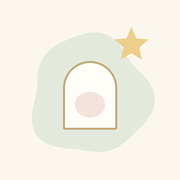
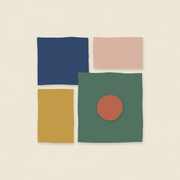
Add files via upload

diff --git a/app.js b/app.js
@@ -121,7 +121,8 @@ function viewHome() {
   h += `${I.flourish}<p class="muted small" style="margin:0">${n} 件作品・${np} 個地點</p></div>
   <button class="hit" data-act="go" data-to="dna" aria-label="我的美感 DNA" style="width:auto;display:flex;flex-direction:column;align-items:center;gap:2px">${avatarHtml(54)}<span class="tiny" style="color:var(--primary);font-weight:700">我的美感</span></button></div>`;
   if (todayVisit) h += `<button class="hit row" data-act="openCamera" style="margin-top:18px;background:var(--sage);border-radius:26px 14px 30px 12px;padding:14px 16px;gap:12px">${I.star('#4F6652', 22)}<span class="grow" style="line-height:1.5"><strong>今天在${esc(todayVisit.name)}</strong><br><span class="muted small">回到相機，繼續記錄</span></span>${I.next}</button>`;
-  if (pending) h += `<div class="card row" style="margin-top:12px;background:var(--butter)"><span class="grow small">有 ${pending} 件作品還沒辨識（可能是沒網路或沒設定金鑰）。</span><button class="btn white" data-act="retryAll">${S.ui.busy.retry ? '<span class="spin"></span>' : '再試一次'}</button></div>`;
+  if (QRUN || S.queue.length) h += `<div class="card row" role="status" style="margin-top:12px;background:var(--sky)"><span class="spin" style="flex:none"></span><span class="grow small" style="line-height:1.5"><strong>正在辨識照片・還有 ${pending + S.queue.length} 張</strong><br>可以先去看別的；關掉 app 也不會遺失，下次打開會接著辨識。</span></div>`;
+  else if (pending) { const ew = S.works.find(w => w.status === 'pending' && w.error); h += `<div class="card row" style="margin-top:12px;background:var(--butter)"><span class="grow small" style="line-height:1.5">有 ${pending} 張照片還沒辨識，照片都已經存好了。${ew ? '<br><span class="muted">' + esc(ew.error) + '</span>' : ''}</span><button class="btn white" data-act="retryAll">${S.ui.busy.retry ? '<span class="spin"></span>' : '再試一次'}</button></div>`; }
   if (!n && !np) {
     h += `<div class="empty">${I.blob('#F4E3DD', 120)}<h2 class="serif" style="font-size:26px;margin:8px 0">你的畫廊還是空的</h2><p class="muted">在美術館、或在路上看到喜歡的東西，打開相機拍下來就好。今天的畫廊會自己慢慢長出來。</p>
     <div class="row wrap" style="margin-top:16px"><button class="btn solid" data-act="openCamera">${I.cam}打開相機</button><button class="btn" data-act="pickLib">${I.img}匯入以前的照片</button></div></div></main>${nav('home')}`;
@@ -147,7 +148,7 @@ function viewHome() {
     let ws = [...S.works].sort((a, b) => lastAt(b) - lastAt(a));
     if (S.ui.favOnly) ws = ws.filter(w => w.fav);
     h += `<div class="row" style="justify-content:space-between;margin:18px 0 14px"><span class="muted small">${S.ui.favOnly ? '最喜歡的作品' : `全部 ${S.works.length} 件・最近的在上面`}</span><button class="opt ${S.ui.favOnly ? 'on' : ''}" aria-pressed="${S.ui.favOnly}" data-act="favOnly">只看最喜歡</button></div><div class="grid2">`;
-    ws.forEach((w, i) => { const m = mainPhoto(w); h += `<button class="hit thumbwork" data-act="go" data-to="work" data-id="${w.id}"><span class="bk" style="background:${PASTEL[i % 5]};border-radius:${RAD[i % 5]}"></span><span class="frame">${m ? `<img src="${purl(m)}" alt="${esc(w.title)}">` : ''}</span>${w.status === 'pending' ? '<span class="badge">待辨識</span>' : w.isCopy ? '<span class="badge">複製品</span>' : w.confidence === 'low' ? '<span class="badge">AI 推測</span>' : ''}<strong style="display:block;font-size:15px;margin-top:8px;line-height:1.5;position:relative">${esc(w.title)}</strong><span class="muted small" style="position:relative">${esc(w.artist || '作者不明')}・${photosOf(w.id).length} 張${w.fav ? '・最喜歡' : ''}</span></button>`; });
+    ws.forEach((w, i) => { const m = mainPhoto(w); h += `<button class="hit thumbwork" data-act="go" data-to="work" data-id="${w.id}"><span class="bk" style="background:${PASTEL[i % 5]};border-radius:${RAD[i % 5]}"></span><span class="frame">${m ? `<img src="${purl(m)}" alt="${esc(w.title)}">` : ''}</span>${w.status === 'pending' ? `<span class="badge">${S.working === w.id ? '辨識中…' : '待辨識'}</span>` : w.isCopy ? '<span class="badge">複製品</span>' : w.confidence === 'low' ? '<span class="badge">AI 推測</span>' : ''}<strong style="display:block;font-size:15px;margin-top:8px;line-height:1.5;position:relative">${esc(w.title)}</strong><span class="muted small" style="position:relative">${esc(w.artist || '作者不明')}・${photosOf(w.id).length} 張${w.fav ? '・最喜歡' : ''}</span></button>`; });
     h += `</div>`;
   } else {
     h += `<div style="border-left:1px solid var(--gold);margin:26px 0 0 8px">`;
@@ -189,7 +190,7 @@ function viewWork() {
   ${p ? `<span class="chip" style="position:absolute;left:18px;bottom:18px;background:rgba(255,253,248,.95)"><strong>${esc(p.type)}</strong>・${idx + 1} / ${ps.length} 張</span>` : ''}</div>
   <div class="row" style="margin-top:10px;overflow-x:auto;padding-bottom:2px">${ps.map((x, i) => `<button class="hit" style="width:auto;flex:none" data-act="photoIdx" data-i="${i}" aria-label="看第 ${i + 1} 張：${esc(x.type)}"><img src="${purl(x)}" alt="" style="width:50px;height:50px;object-fit:cover;display:block;border:3px solid ${i === idx ? 'var(--accent)' : 'var(--card)'};border-radius:12px 8px 14px 6px"></button>`).join('')}</div>
   <button class="btn white" data-act="sheet" data-v="menu" style="margin-top:8px;font-size:14px">${I.sort}這張放錯了？整理這張照片</button>`;
-  if (w.status === 'pending') h += `<div class="card" style="margin-top:18px;background:var(--butter)"><strong>這件還沒辨識</strong><p style="margin:4px 0 10px" class="small">${esc(w.error || '有網路、設定好金鑰後就能辨識。')}</p><button class="btn white" data-act="reanalyze">${S.ui.busy[w.id] ? '<span class="spin"></span> 辨識中' : '現在辨識'}</button></div>`;
+  if (w.status === 'pending') h += `<div class="card" style="margin-top:18px;background:var(--butter)"><strong>${S.working === w.id ? '正在辨識…' : '這張還沒辨識'}</strong><p style="margin:4px 0 10px" class="small">${esc(S.working === w.id ? '馬上就好。' : (w.error || '照片已經存好，正在排隊等待辨識。'))}</p><button class="btn white" data-act="reanalyze">${S.ui.busy[w.id] ? '<span class="spin"></span> 辨識中' : '現在辨識'}</button></div>`;
   h += `<div style="margin-top:20px">${w.isCopy ? '<span class="chip">複製品・不算進美感 DNA</span> ' : ''}${w.kind === 'street' ? '<span class="chip" style="background:var(--sage)">路上的小美好</span>' : ''}`;
   if (S.ui.editInfo) {
     h += `<div class="card" style="margin-top:10px">${[['eiT', '作品名稱', w.title], ['eiA', '藝術家', w.artist], ['eiY', '年代', w.year], ['eiM', '媒材', w.medium]].map(([id, l, v]) => `<label class="lab" for="${id}">${l}</label><input id="${id}" class="field" value="${esc(v || '')}" style="margin-bottom:10px">`).join('')}<p class="muted tiny" style="margin:0 0 10px">存下來後，可以按「依新資料重寫解說」讓 AI 重新整理。</p><div class="row"><button class="btn grow" data-act="editInfo">取消</button><button class="btn solid grow" data-act="saveInfo">存下來</button></div></div>`;
@@ -253,7 +254,8 @@ function viewCamera() {
   const todays = pl ? visitsOf(pl.id).find(v => v.date === ymd(Date.now())) : null;
   let h = `<main class="cam"><div class="row" style="justify-content:space-between;align-items:flex-start"><span class="pill">${pl ? `你在<strong>${esc(pl.name)}</strong><br><span class="muted tiny">今天的畫廊已開始・${todays ? todays.works.length : 0} 件</span>` : '拍下第一張，<br><span class="muted tiny">AI 會判斷你在哪裡</span>'}</span>
   <button class="btn white" data-act="endVisit" style="font-weight:700;color:var(--ink)">結束</button></div><div style="flex:1;display:flex;flex-direction:column;justify-content:center;gap:12px;padding:16px 0">`;
-  S.queue.forEach(q => { h += `<div class="pill row" role="status">${q.thumb ? `<img src="${q.thumb}" alt="" style="width:44px;height:44px;object-fit:cover;border-radius:10px">` : ''}<span class="spin"></span><span>${q.status === 'ai' ? '辨識中…' : '處理照片中…'}</span></div>`; });
+  const nq = queuedWorks().length + S.queue.length; const cw = S.working && workOf(S.working); const cp = cw && mainPhoto(cw);
+  if (nq) h += `<div class="pill row" role="status">${cp ? `<img src="${purl(cp)}" alt="" style="width:44px;height:44px;object-fit:cover;border-radius:10px">` : ''}<span class="spin"></span><span class="grow" style="line-height:1.4">${QRUN ? '辨識中' : '已存好，等待辨識'}・還有 ${nq} 張<br><span class="muted tiny">照片已經存好，可以繼續拍或關閉相機</span></span></div>`;
   const L = S.last; const lw = L && workOf(L.workId);
   if (L && L.facade) h += `<div class="pill">已存成這個地點的封面照片。</div>`;
   else if (lw && L.grouped) h += `<div class="pill" role="status" style="background:var(--sage)">已收在一起（${photosOf(lw.id).length} 張）・《${esc(lw.title)}》</div>`;
@@ -269,7 +271,7 @@ function viewCamera() {
   <label for="camInput" class="shutter" role="button" aria-label="拍照"><span>${I.star('#EBCF8A', 30)}</span></label>
   <button class="round" data-act="${S.rec ? 'stopRec' : 'startRec'}" aria-label="${S.rec ? '結束錄音' : '錄下感想'}" style="${S.rec ? 'background:var(--pink);color:var(--accent)' : ''}">${I.mic}</button></div>
   <p class="tiny" style="text-align:center;margin:10px 0 0;opacity:.85">拍照後會自動辨識、自動收進今天的畫廊${S.last && S.last.workId ? '；麥克風會把感想存到最新的作品' : ''}</p>
-  <button class="btn ghost" data-act="tab" data-to="home" style="color:#FBF7EF;margin:6px auto 0">${I.x}關閉相機</button></main>`;
+  <button class="btn ghost" data-act="tab" data-to="home" style="color:#FBF7EF;margin:6px auto 0">${I.x}關閉相機${nq ? '（辨識會在背景繼續）' : ''}</button></main>`;
   return h;
 }
 
@@ -456,26 +458,57 @@ function applyAI(w, r, opts = {}) {
 }
 function candidatesFor(placeId) { return placeId ? worksAt(placeId).filter(w => w.status === 'ready').sort((a, b) => lastAt(b) - lastAt(a)).slice(0, 40).map(w => ({ id: w.id, title: w.title + (w.titleOriginal ? ' / ' + w.titleOriginal : ''), artist: w.artist })) : []; }
 
+/* 照片先存起來（很快），辨識交給背景佇列：離開相機、關掉 app 都不會遺失 */
 async function processFile(file, fromCamera) {
-  const q = { id: uid(), status: 'prep', thumb: null }; S.queue.push(q); if (S.route.name === 'camera') render();
+  const q = { id: uid(), status: 'prep', thumb: null }; S.queue.push(q); render();
   try {
     const exif = await readExif(file);
     const prep = await prepareImage(file);
-    q.thumb = URL.createObjectURL(prep.thumb);
     const takenAt = exif.time || (fromCamera ? Date.now() : (file.lastModified || Date.now()));
     const loc = exif.lat != null ? { lat: exif.lat, lng: exif.lng } : (fromCamera ? await getLocation() : null);
-    const photo = { id: uid(), workId: null, placeId: null, type: '作品', blob: prep.full, thumb: prep.thumb, w: prep.w, h: prep.h, takenAt, lat: loc ? loc.lat : null, lng: loc ? loc.lng : null, createdAt: Date.now() };
+    const photo = { id: uid(), workId: null, placeId: null, type: '作品', blob: prep.full, thumb: prep.thumb, w: prep.w, h: prep.h, takenAt, lat: loc ? loc.lat : null, lng: loc ? loc.lng : null, createdAt: Date.now(), fromCamera: !!fromCamera };
     const sess = currentSession(takenAt, loc);
-    const geo = await reverseCity(loc);
-    q.status = 'ai'; if (S.route.name === 'camera') render();
-    let r = null, err = null;
-    try { r = await AI.analyzePhoto(S.settings, { imageB64: prep.aiData, takenAt, placeHint: sess ? placeOf(sess.placeId).name : null, cityHint: geo && geo.city, candidates: candidatesFor(sess && sess.placeId) }); }
-    catch (e) { err = e; }
-    await integrate(photo, r, { sess, loc, geo, takenAt, err });
+    const w = { id: uid(), placeId: sess ? sess.placeId : null, title: '辨識中的作品', status: 'pending', queued: true, thoughts: [], fav: false, createdAt: Date.now() };
+    S.works.push(w); await saveWork(w);
+    photo.workId = w.id; S.photos.push(photo); await savePhoto(photo);
     if (navigator.storage && navigator.storage.persist) navigator.storage.persist().catch(() => {});
-  } catch (e) { toast('這張照片處理失敗：' + e.message); }
+  } catch (e) { toast('這張照片打不開：' + e.message); }
   S.queue = S.queue.filter(x => x !== q);
   render();
+}
+let QRUN = false, QTIMER = null;
+const queuedWorks = () => S.works.filter(w => w.status === 'pending' && w.queued);
+async function runQueue() {
+  if (QRUN) return; QRUN = true; clearTimeout(QTIMER);
+  try {
+    while (true) {
+      const list = queuedWorks().filter(w => !w.hold).map(w => ({ w, p: photosOf(w.id)[0] })).filter(x => x.p).sort((a, b) => a.p.takenAt - b.p.takenAt);
+      if (!list.length) break;
+      const { w, p } = list[0]; S.working = w.id; render();
+      const loc = p.lat != null ? { lat: p.lat, lng: p.lng } : null;
+      const sess = currentSession(p.takenAt, loc);
+      const geo = await reverseCity(loc);
+      let r = null, err = null;
+      try { const prep = await prepareImage(p.blob); r = await AI.analyzePhoto(S.settings, { imageB64: prep.aiData, takenAt: p.takenAt, placeHint: sess ? placeOf(sess.placeId).name : null, cityHint: geo && geo.city, candidates: candidatesFor(sess && sess.placeId) }); }
+      catch (e) { err = e; }
+      if (!r) {
+        w.error = err.message; w.attempts = (w.attempts || 0) + 1; await saveWork(w);
+        const stopAll = ['nokey', 'offline', 'network'].includes(err.code);
+        const later = err.code === 'timeout' || err.status === 429 || err.status >= 500;
+        if (stopAll) { if (err.code === 'nokey') toast('還沒設定 AI 金鑰，照片都先存起來了。到設定貼上金鑰就會開始辨識。', 5000); break; }
+        w.hold = true; // 先跳過這張，繼續下一張
+        if (later) { clearTimeout(QTIMER); QTIMER = setTimeout(() => { queuedWorks().forEach(x => { x.hold = false; }); runQueue(); }, 60000); }
+        continue;
+      }
+      // 辨識成功：拿掉暫時的作品，照片依 AI 結果收進正確的地點和作品
+      const prevLast = S.last;
+      S.works = S.works.filter(x => x.id !== w.id); await DB.del('works', w.id);
+      S.photos = S.photos.filter(x => x.id !== p.id); p.workId = null;
+      await integrate(p, r, { sess, loc, geo, takenAt: p.takenAt });
+      if (!p.fromCamera) S.last = prevLast;
+      if (S.route.name === 'work' && S.route.p.id === w.id && p.workId) { S.route = { name: 'work', p: { id: p.workId } }; }
+    }
+  } finally { QRUN = false; S.working = null; render(); }
 }
 async function integrate(photo, r, ctx) {
   const { sess, loc, geo, takenAt, err } = ctx;
@@ -519,12 +552,9 @@ async function integrate(photo, r, ctx) {
 }
 async function handleFiles(files, fromCamera) {
   const arr = [...files]; if (!arr.length) return;
-  if (!fromCamera && arr.length > 1) {
-    const withT = await Promise.all(arr.map(async f => ({ f, t: (await readExif(f)).time || f.lastModified || 0 })));
-    withT.sort((a, b) => a.t - b.t); arr.splice(0, arr.length, ...withT.map(x => x.f));
-    toast(`正在整理 ${arr.length} 張照片，會依拍攝時間自動分組。`, 4000);
-  }
+  if (!fromCamera) toast(arr.length > 1 ? `收到 ${arr.length} 張照片，正在背景辨識。可以先去看別的，關掉 app 也不會遺失。` : '收到照片，正在背景辨識。', 4500);
   for (const f of arr) await processFile(f, fromCamera);
+  runQueue();
 }
 async function reanalyze(w, useCandidates = false) {
   const ps = photosOf(w.id); if (!ps.length) return;
@@ -548,9 +578,11 @@ async function reanalyze(w, useCandidates = false) {
 }
 async function retryPending() {
   if (S.ui.busy.retry || !navigator.onLine || !(S.settings.keys || {})[S.settings.provider]) return;
-  const ps = S.works.filter(w => w.status === 'pending'); if (!ps.length) return;
+  queuedWorks().forEach(w => { w.hold = false; });
+  runQueue();
+  const old = S.works.filter(w => w.status === 'pending' && !w.queued); if (!old.length) return;
   S.ui.busy.retry = true; render();
-  for (const w of ps) await reanalyze(w, true);
+  for (const w of old) await reanalyze(w, true);
   delete S.ui.busy.retry; render();
 }
 
@@ -668,7 +700,7 @@ const ACT = {
   showLong: () => { S.ui.showLong = !S.ui.showLong; render(); },
   editInfo: () => { S.ui.editInfo = !S.ui.editInfo; render(); },
   saveInfo: async () => { const w = workOf(S.route.p.id); Object.assign(w, { title: $('#eiT').value.trim() || w.title, artist: $('#eiA').value.trim(), year: $('#eiY').value.trim(), medium: $('#eiM').value.trim(), userEdited: true, confidence: 'high' }); if (w.status === 'pending' && w.title !== '待辨識的作品') w.status = 'ready'; S.ui.editInfo = false; await saveWork(w); toast('已更新。'); render(); },
-  reanalyze: () => { const w = workOf(S.route.p.id); if (w && !S.ui.busy[w.id]) reanalyze(w, w.status === 'pending'); },
+  reanalyze: () => { const w = workOf(S.route.p.id); if (!w) return; if (w.queued && w.status === 'pending') { w.hold = false; toast('排進辨識佇列了。'); runQueue(); return; } if (!S.ui.busy[w.id]) reanalyze(w, w.status === 'pending'); },
   retryAll: () => retryPending(),
   artistDna: async () => {
     const w = workOf(S.route.p.id); if (S.ui.busy.artist) return; S.ui.busy.artist = true; render();
@@ -723,7 +755,7 @@ const ACT = {
     const v = $('#keyIn').value.trim(); if (!v) { S.ui.obMsg = '請先貼上金鑰。'; render(); return; }
     S.settings.keys = { ...S.settings.keys, [S.settings.provider]: v }; await saveSettings();
     S.ui.busy.key = true; S.ui.obMsg = ''; render();
-    try { await AI.testKey(S.settings); S.ui.obMsg = '成功！金鑰可以使用，已經存好了。'; retryPending(); }
+    try { await AI.testKey(S.settings); S.ui.obMsg = '成功！金鑰可以使用，已經存好了。'; queuedWorks().forEach(w => { w.hold = false; }); retryPending(); }
     catch (e) { S.ui.obMsg = e.message; }
     delete S.ui.busy.key; render();
   },
@@ -744,8 +776,8 @@ document.addEventListener('click', e => {
   e.preventDefault(); fn(el.dataset, el, e);
 });
 document.addEventListener('keydown', e => { if (e.key === 'Enter' && e.target.id === 'nameIn') ACT.saveName(); });
-$('#camInput').addEventListener('change', e => { const f = e.target.files; if (S.route.name !== 'camera') tab('camera'); handleFiles(f, true).finally(() => { e.target.value = ''; }); });
-$('#libInput').addEventListener('change', e => { const f = e.target.files; if (S.route.name !== 'camera') tab('camera'); handleFiles(f, false).finally(() => { e.target.value = ''; }); });
+$('#camInput').addEventListener('change', e => { const f = [...e.target.files]; e.target.value = ''; if (S.route.name !== 'camera') tab('camera'); handleFiles(f, true); });
+$('#libInput').addEventListener('change', e => { const f = [...e.target.files]; e.target.value = ''; if (S.route.name === 'camera' || S.route.name !== 'home') tab('home'); S.ui.homeView = 'works'; handleFiles(f, false); });
 $('#addInput').addEventListener('change', async e => {
   const w = workOf(S.route.p.id); if (!w) return;
   for (const f of e.target.files) { const exif = await readExif(f); const prep = await prepareImage(f); const p = { id: uid(), workId: w.id, type: '細節', blob: prep.full, thumb: prep.thumb, w: prep.w, h: prep.h, takenAt: exif.time || f.lastModified || Date.now(), lat: exif.lat ?? null, lng: exif.lng ?? null, createdAt: Date.now() }; S.photos.push(p); await savePhoto(p); }
@@ -754,6 +786,7 @@ $('#addInput').addEventListener('change', async e => {
 $('#avatarInput').addEventListener('change', async e => { const f = e.target.files[0]; if (!f) return; const prep = await prepareImage(f); await setAvatar(prep.thumb); e.target.value = ''; render(); });
 $('#importInput').addEventListener('change', e => { const f = e.target.files[0]; if (f) importData(f); e.target.value = ''; });
 window.addEventListener('online', () => { setTimeout(retryPending, 1500); });
+document.addEventListener('visibilitychange', () => { if (document.visibilityState === 'visible') setTimeout(runQueue, 800); });
 
 async function loadAll() {
   S.settings = { ...DEFAULTS, ...(await DB.getKV('settings', {})) };
@@ -767,5 +800,5 @@ async function loadAll() {
   try { await loadAll(); } catch (e) { $('#app').innerHTML = '<p style="padding:30px">這個瀏覽器無法儲存資料（可能是無痕模式）。請用一般模式的 Safari 或 Chrome 打開。</p>'; return; }
   S.route = { name: 'home', p: {} }; render();
   if ('serviceWorker' in navigator) navigator.serviceWorker.register('sw.js').catch(() => {});
-  setTimeout(retryPending, 3000);
+  setTimeout(() => { runQueue(); retryPending(); }, 1500);
 })();

diff --git a/ai.js b/ai.js
@@ -2,12 +2,12 @@
 /* AI：每個人用自己的金鑰，直接從手機呼叫，金鑰只存在這支手機裡。 */
 const AI = (() => {
   const PROVIDERS = {
-    gemini: { name: 'Gemini', model: 'gemini-flash-latest', keyHint: 'AQ. 或 AIza 開頭', audio: true },
+    gemini: { name: 'Gemini', model: 'gemini-2.5-flash', keyHint: 'AQ. 或 AIza 開頭', audio: true },
     claude: { name: 'Claude', model: 'claude-sonnet-4-5', keyHint: 'sk-ant- 開頭', audio: false },
     openai: { name: 'ChatGPT', model: 'gpt-4o-mini', keyHint: 'sk- 開頭', audio: false }
   };
 
-  const GEMINI_FALLBACK = ['gemini-2.5-flash', 'gemini-2.5-flash-lite', 'gemini-flash-lite-latest'];
+  const GEMINI_FALLBACK = ['gemini-flash-latest', 'gemini-2.5-flash-lite', 'gemini-flash-lite-latest'];
 
   function parseJSON(text) {
     if (!text) throw new Error('AI 沒有回覆內容');
@@ -33,9 +33,16 @@ const AI = (() => {
     return friendlyError(status, body) + `（代碼 ${status}${msg ? '・' + String(msg).slice(0, 80) : ''}）`;
   }
 
+  // 每次呼叫最多等 45 秒，超過就先跳過，之後再試
+  async function tFetch(url, opts, ms = 45000) {
+    const ctl = new AbortController(); const t = setTimeout(() => ctl.abort(), ms);
+    try { return await fetch(url, { ...opts, signal: ctl.signal }); }
+    catch (e) { if (e.name === 'AbortError') { const err = new Error('AI 回應太久，先跳過這張，稍後會再自動試一次。'); err.code = 'timeout'; throw err; } throw e; }
+    finally { clearTimeout(t); }
+  }
   async function netFetch(url, opts) {
-    try { return await fetch(url, opts); }
-    catch (e) { const err = new Error('連不上 AI 服務（Load failed）。請確認網路正常；如果一直出現，可以到設定改用其他 AI。'); err.code = 'network'; throw err; }
+    try { return await tFetch(url, opts); }
+    catch (e) { if (e.code === 'timeout') throw e; const err = new Error('連不上 AI 服務（Load failed）。請確認網路正常；如果一直出現，可以到設定改用其他 AI。'); err.code = 'network'; throw err; }
   }
 
   async function call(settings, { system, text, imageB64, audioB64, audioMime, json = true, maxTokens = 1800 }) {
@@ -56,8 +63,11 @@ const AI = (() => {
       for (let i = 0; i < models.length; i++) {
         const url = `https://generativelanguage.googleapis.com/v1beta/models/${encodeURIComponent(models[i])}:generateContent`;
         // 先用「簡單請求」（不帶自訂標頭，Safari 比較不會擋），失敗再改用標頭帶金鑰
-        try { res = await fetch(url + '?key=' + encodeURIComponent(key), { method: 'POST', headers: { 'Content-Type': 'text/plain;charset=UTF-8' }, body: payload }); }
-        catch (e1) { res = await netFetch(url, { method: 'POST', headers: { 'Content-Type': 'application/json', 'x-goog-api-key': key }, body: payload }); }
+        try { res = await tFetch(url + '?key=' + encodeURIComponent(key), { method: 'POST', headers: { 'Content-Type': 'text/plain;charset=UTF-8' }, body: payload }); }
+        catch (e1) {
+          if (e1.code === 'timeout') { if (i === models.length - 1) throw e1; continue; }
+          res = await netFetch(url, { method: 'POST', headers: { 'Content-Type': 'application/json', 'x-goog-api-key': key }, body: payload });
+        }
         body = await res.json().catch(() => ({}));
         if (res.ok) break;
         const busy = res.status >= 500 || res.status === 429 || res.status === 404;

diff --git a/sw.js b/sw.js
@@ -1,5 +1,5 @@
 // 我的美術館 service worker：讓 app 在沒有網路時也能打開
-const VERSION = 'mg-v4';
+const VERSION = 'mg-v5';
 const SHELL = ['./', 'index.html', 'style.css', 'db.js', 'ai.js', 'app.js', 'manifest.webmanifest', 'icon-192.png', 'icon-512.png', 'apple-touch-icon.png'];
 
 self.addEventListener('install', e => {
@@ -15,7 +15,13 @@ self.addEventListener('fetch', e => {
   const isFont = url.host.includes('fonts.googleapis.com') || url.host.includes('fonts.gstatic.com');
   const isLib = url.host.includes('cdnjs.cloudflare.com');
   if (!sameOrigin && !isFont && !isLib) return; // AI、地圖圖磚等一律走網路
-  // 先給快取、背景更新（stale-while-revalidate）
+  // App 本身的檔案：先拿網路上的新版，沒網路才用快取（這樣更新會立刻生效）
+  if (sameOrigin) {
+    e.respondWith(fetch(e.request).then(res => { if (res && res.ok) caches.open(VERSION).then(c => c.put(e.request, res.clone())); return res; })
+      .catch(() => caches.open(VERSION).then(c => c.match(e.request, { ignoreSearch: true }))));
+    return;
+  }
+  // 字型與地圖程式庫：先給快取、背景更新
   e.respondWith(caches.open(VERSION).then(async cache => {
     const hit = await cache.match(e.request, { ignoreSearch: sameOrigin });
     const net = fetch(e.request).then(res => {
